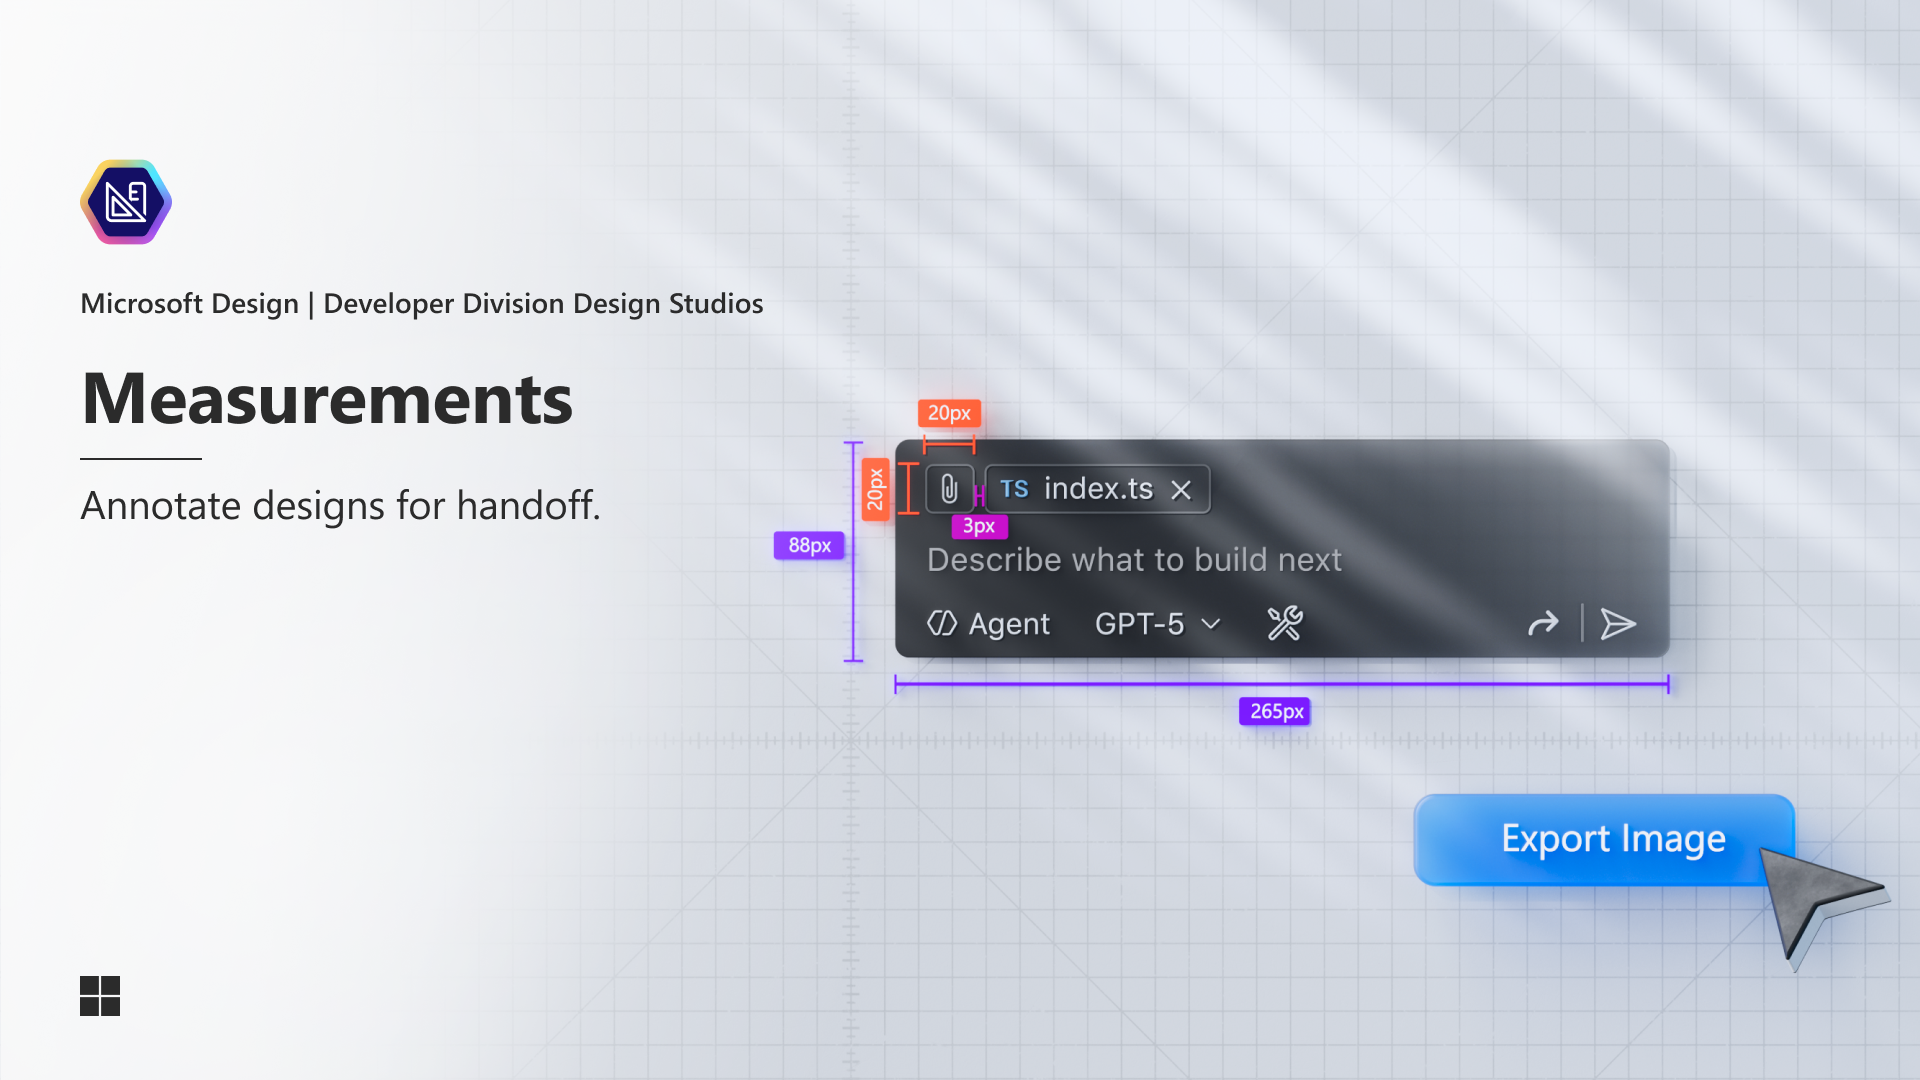
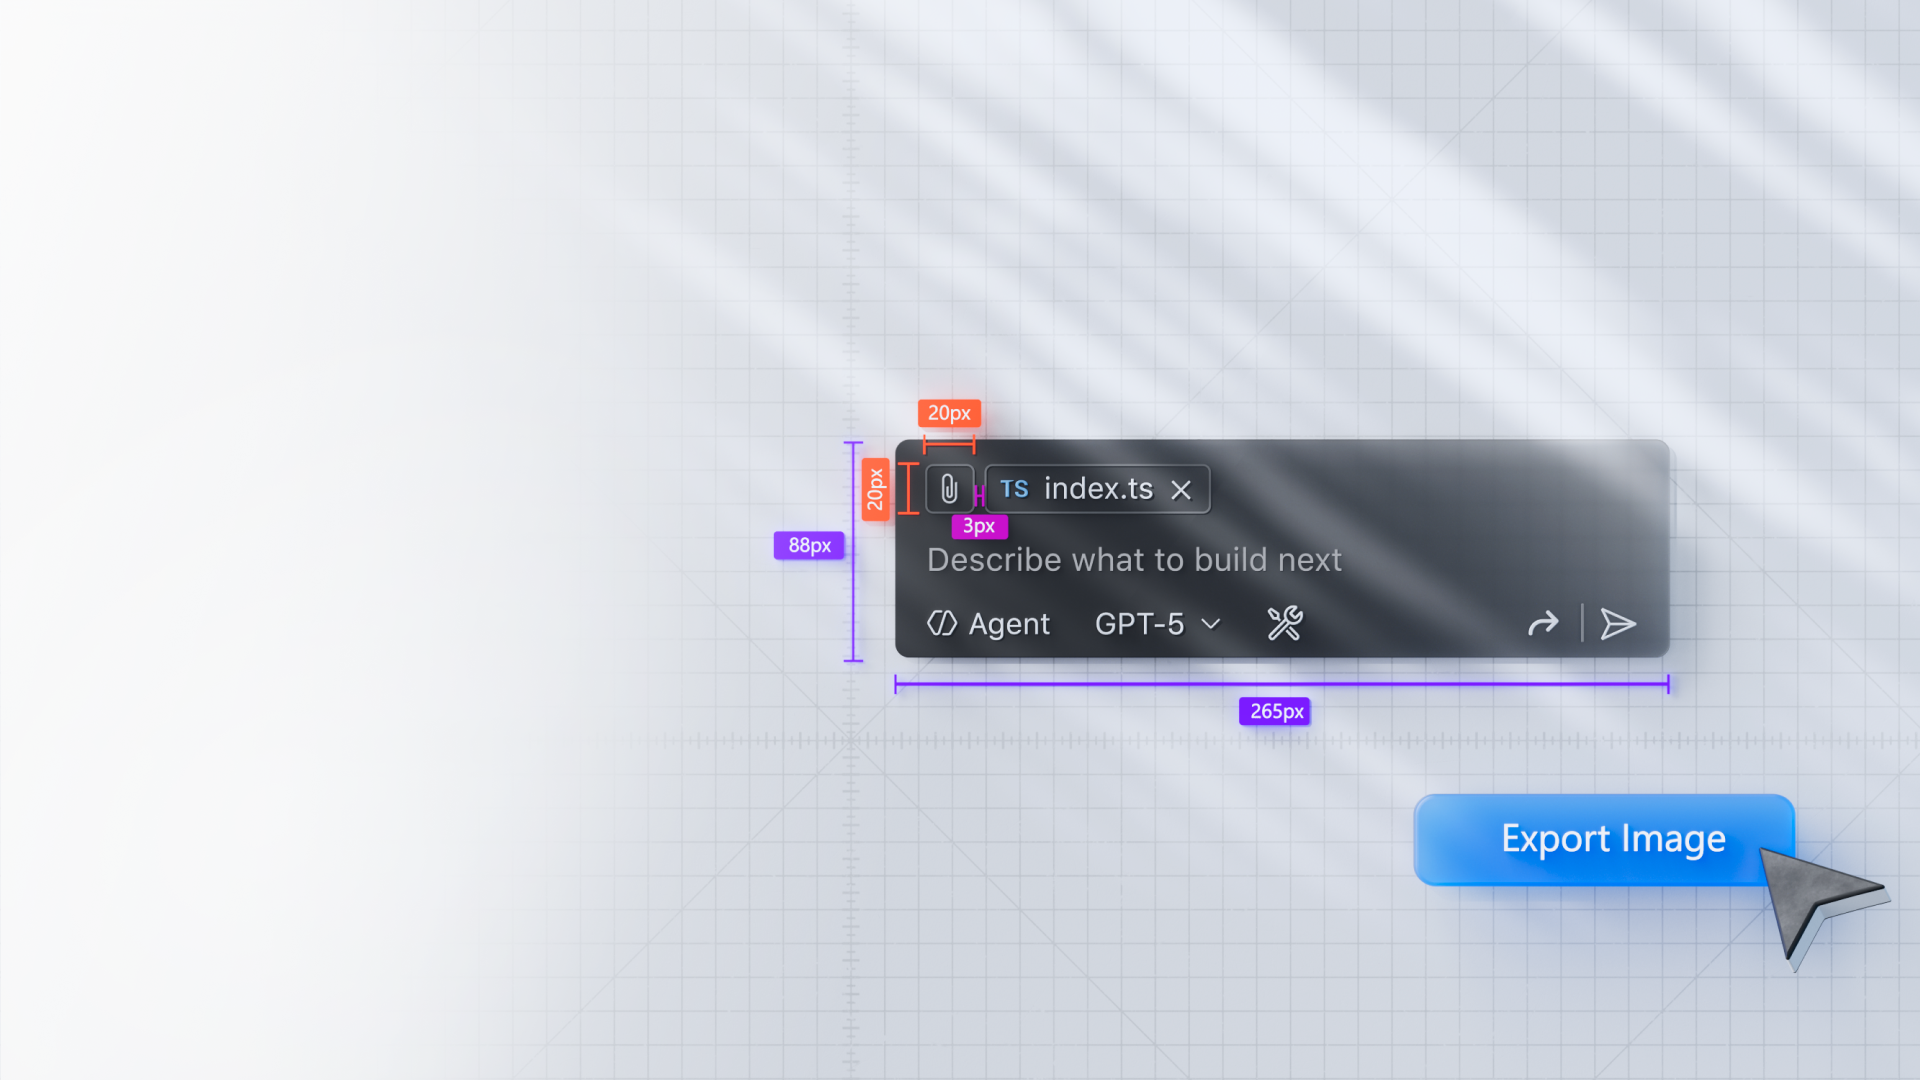
fix: update completion date and duration for Measurements project

diff --git a/src/data/markdown-content.ts b/src/data/markdown-content.ts
@@ -37,6 +37,7 @@ import lightMd from '../content/projects/light.md?raw'
 import magicWandMd from '../content/projects/magic-wand.md?raw'
 import magnetismMd from '../content/projects/magnetism.md?raw'
 import markdownFeaturesDemoMd from '../content/projects/markdown-features-demo.md?raw'
+import measurementsMd from '../content/projects/measurements.md?raw'
 import motionStudy_1Md from '../content/projects/motion-study-1.md?raw'
 import notebooksMd from '../content/projects/notebooks.md?raw'
 import objective_4xMd from '../content/projects/objective-4x.md?raw'
@@ -113,6 +114,7 @@ export const MARKDOWN_CONTENT: Record<string, string> = {
   'magic-wand': magicWandMd,
   'magnetism': magnetismMd,
   'markdown-features-demo': markdownFeaturesDemoMd,
+  'measurements': measurementsMd,
   'motion-study-1': motionStudy_1Md,
   'notebooks': notebooksMd,
   'objective-4x': objective_4xMd,

diff --git a/src/content/projects/measurements.md b/src/content/projects/measurements.md
@@ -10,8 +10,8 @@ featured: false
 liveUrl: https://www.figma.com/community/plugin/1571156498644155137/measurements
 liveUrlLabel: View plugin
 sourceUrl:
-completedAt: 2025-09-04
-duration: 1 week
+completedAt: 2025-11-04
+duration: 1 day
 ---
 
 # Measurements
